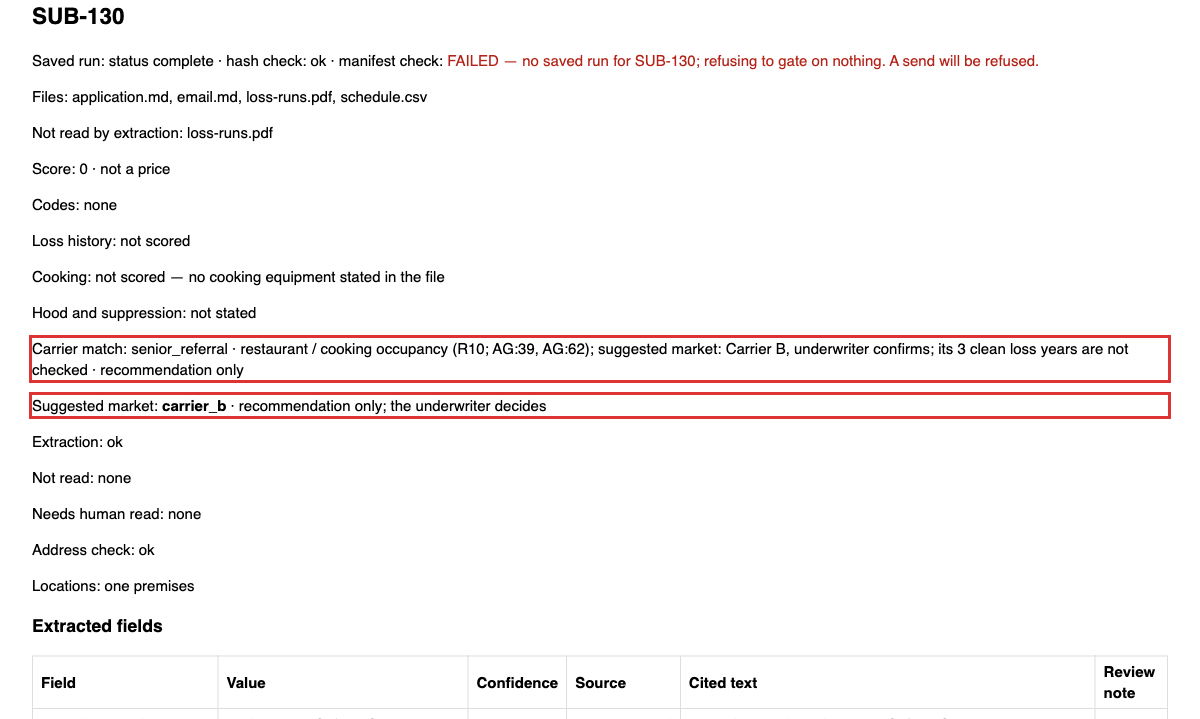
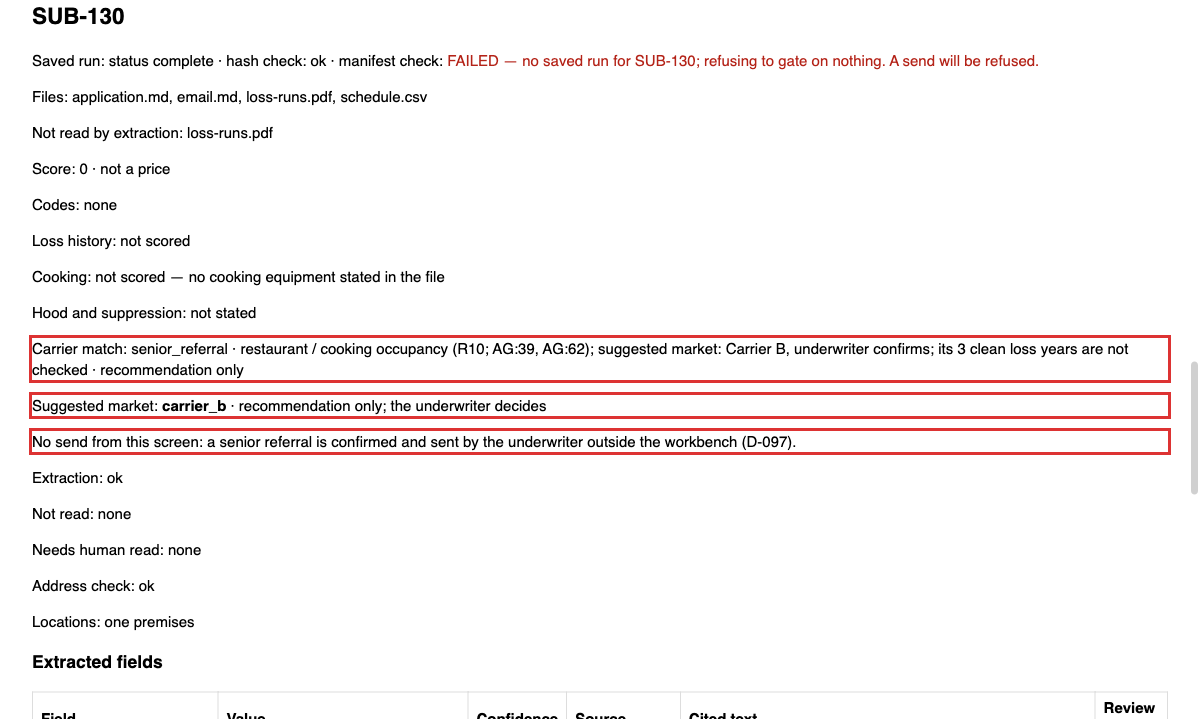
2026-10-16: D-097 @senior-underwriter UI APPROVE WITH CHANGES: senior-referral cards say 'No send from this screen' (UI H1), self-check, screenshot. @model-risk: scorer v4 APPROVE; P-049 routing OBJECTION H1 (pub/lounge with office/retail words, 'no utilities', 'unoccupied' reach carrier_a) needs a 

diff --git a/underwriting_pipeline/app/workbench.py b/underwriting_pipeline/app/workbench.py
@@ -825,6 +825,7 @@ def render(queue: list[dict], counts: dict | None = None, messages: dict | None 
                              f" ({html.escape(pv['provisional_label'])}) · No send until the hold clears</p>")
             if item["route"] == "senior_referral":  # B-264: only a senior referral names a market
                 lines.append(f"<p>Suggested market: <b>{html.escape(item.get('suggested') or 'none')}</b> · recommendation only; the underwriter decides</p>")
+                lines.append("<p>No send from this screen: a senior referral is confirmed and sent by the underwriter outside the workbench (D-097).</p>")
         lines += [
             f"<p>Extraction: {html.escape(extraction)}</p>",
             unread_html,
@@ -1459,7 +1460,7 @@ if __name__ == "__main__":
 
                 # Suggested market is its own field; the footer shows model and prompt version, never a key or a host.
                 stored("SUB-907", "complete", [{**r, "value": "roofing contractor"} if r["field_id"] == "operations" else r for r in good])
-                assert "Suggested market: <b>carrier_b</b>" in art(render(load_queue(), None), "SUB-907")
+                assert "Suggested market: <b>carrier_b</b>" in art(render(load_queue(), None), "SUB-907") and "No send from this screen: a senior referral" in art(render(load_queue(), None), "SUB-907")  # D-097 UI H1
                 assert "Suggested market" not in art(render(load_queue(), None), "SUB-901")  # B-264: senior referrals only
                 env_old = {k: os.environ.get(k) for k in ("LLM_API_KEY", "LLM_BASE_URL", "LLM_MODEL")}
                 try:

diff --git a/deliverables/model-risk/check-P-049.md b/deliverables/model-risk/check-P-049.md
@@ -1,0 +1,36 @@
+# @model-risk check — D-097: P-049 build and scorer v4
+
+- Date: 2026-10-16. Reviewer: @model-risk (independent). Scope: commits 96deed8, a6cebb3, 3fe3e00, 213d884 (added by the orchestrator: wet chemical exemption narrowed).
+- Evidence read: carrier-match.md, appetite-guide.md, carrier-appetite.md, workbench.py `_match` and self-checks, eval_holdout_v4.py (diffed against v3), dev gold SUB-127–146 diffs, P-049-dev score files, RUN-RULES.md, screenshot, DECISIONS D-095–D-097.
+- Synthetic data. An approved proposal is not a production approval; the T-027 veto stands.
+
+## Verdict: OBJECTION (production and gate use of P-049 routing), one High. Scorer v4: APPROVE.
+
+## Recomputed
+
+- Dev re-score SUB-127–146 at HEAD 213d884, scorer v4, from a temp copy of the cache (`LLM_CACHE_DIR` temp, `HOLDOUT_RESCORE=1`, `LLM_PACE_SECONDS=0`, no `--write`): 0 model calls, 20/20 from cache, repo `git status` unchanged before/after.
+- Route gate **PASS**: 0 unsafe, route 18/20 (exactly the floor). Misses: SUB-135 and SUB-143, gold carrier_a, code no_match (safe direction). False completes 0. Loss runs 8 hit / 0 miss / 12 not credited. Matches the committed 3fe3e00 file.
+- `eval_holdout_v4.py --self-check` ok; `workbench.py --self-check` ok. v2 and v3 have no commits after a11ab83 (frozen).
+- Conditions: (a) R10 cites AG:39, AG:62 (AG:66 citation dropped), B-377 logged — met. (b) AG:37 and AG:62 quoted correctly; D-059 item 6 replacement recorded in D-097 — met. (c) "suggested market: Carrier B/C, underwriter confirms" on every B/C note and in the screenshot — met. (d) W2 checked before class words; SUB-138 and SUB-144 now senior_referral — met for the listed words; see H1 for W1.
+- Dev gold: 8 files changed, each with a dated @senior-underwriter note citing the rule; changes follow the written rules, not the code output.
+- 213d884: the exemption is whole-phrase and only with restaurant evidence; "wet chemicals wholesale" stays senior_referral (re-run). Closed.
+
+## High
+
+**H1 — Written prohibited classes reach carrier_a, the only direct route (an unsafe route under v4).** Probed `match()` at 213d884 with TIV $1,000,000:
+- "office building with ground-floor pub" → carrier_a; "retail store and cocktail lounge" → carrier_a. AG:46 (edited in 96deed8) lists pubs and lounges as prohibited, but W1 / `PROHIBITED` omit pub, pubs, lounge, lounges, so a bar word without restaurant evidence plus a class A word falls through to R14.
+- "office building, no utilities" → carrier_a. AG:51 prohibits buildings with no utilities; `_ops` drops "no <word>", so the phrase is never seen (the same defect P-049 fixed for "no sprinklers").
+- "office, unoccupied" → carrier_a (AG:51 vacancy synonym not in W2e).
+D-097 1d requires prohibited words to win over appetite words. A gold writer following AG:46/AG:51 would mark these no_match, so a T-103 file like these fails the gate as unsafe.
+**Resolution:** (1) a bar word (W1b: pub, pubs, lounge, lounges) with a class A word and no restaurant evidence → senior_referral (or no_match), never carrier_a; written in carrier-match.md to match AG:46; (2) read "no utilities" / "without utilities" / "unoccupied" from the raw cited text before the negation drop (as `unsprinklered`), routed per AG:51 / W2e; (3) self-checks for each probe above. Needs `approve change P-###` from the user; @head-of-underwriting writes the rule lines.
+
+## Medium / Low (backlog, one line each)
+
+- M1: W2 is a closed word list; "wholesale gasoline", "wholesale ammonia", "wholesale lithium batteries", "retail convenience store with gas pumps", "retail paint store" → carrier_a. AG:31 needs a hazardous-goods yes/no field or a wider list (@head-of-underwriting, @senior-underwriter).
+- M2: v4 still parses a gold line "hold" as a route and then never counts it unsafe; v4 should make the gate NOT EVALUABLE when any gold route is "hold" (H3 says it is never one).
+- M3: v2/v3 route columns call the live `workbench.match`; re-running them now gives different route marks and their self-checks fail (RUN-RULES documents it). Published files are untouched, but frozen scorers are no longer reproducible; pin or snapshot the router for re-runs.
+- M4: the dev gate passes at exactly 18/20 and the dev gold changed in the same commit as the code; this is not hold-out evidence. T-103 (SUB-154–173) must be scored once with v4.
+- L1: W1 runs before the R5/R6 hold gate, unlike the rules-file order (B-378); safe direction.
+- L2: "dry chemical extinguishers" on an office routes to the hazardous-goods referral (safe, wrong note).
+- L3: two lines added at AG:63–64 shift later AG line numbers; older citations past AG:62 now point elsewhere.
+- L4: SUB-130 card shows "Cooking: not scored — no cooking equipment stated" for a cafe routed by R10 (screenshot).

diff --git a/team/DISCUSSION.md b/team/DISCUSSION.md
@@ -3207,3 +3207,15 @@ Message: deliverables/head-of-underwriting/carrier-match.md is rewritten as R1..
 [2026-10-16 | @senior-underwriter → @user, @head-of-underwriting, @software-engineer, @model-risk] TYPE: DECISION-NOTE
 Re: D-097 items 1-2 (W2 list review; dev gold SUB-127-146)
 Message: Part A. W2a OK on words, but a document-wide match would wrongly refer safe Class A files that say "no hazardous goods"; match the operations/occupancy fields, not negated phrases. W2b OK; same negation risk ("no medical occupancy"), and "medical" in a neighbour/billing mention should not fire. W2c OK. W2d OK. W2e: "vacant" must apply to the insured premises, not "vacant suite next door"; add "no utilities" (AG:51), currently missing. Part B. Gold route now means where the file goes once any hold clears; hold is a status. Changed: SUB-130, 132, 136, 140 carrier_b to senior_referral (R10, suggested carrier_b); SUB-133 carrier_c to senior_referral (R12, suggested carrier_c); SUB-138 hold to senior_referral (W2a fertilizer); SUB-143 hold to carrier_a (R14, TIV missing, status incomplete); SUB-144 no_match to senior_referral (W2b therapy). Others already compliant. Gold written from documents and rules only; no code opened.
+
+---
+[2026-10-16 | @model-risk → @head-of-underwriting, @ai-engineer-assistant, @user] TYPE: OBJECTION
+Re: D-097 (P-049 build, scorer v4)
+Message: deliverables/model-risk/check-P-049.md. Scorer v4: APPROVE. P-049 routing: OBJECTION, H1. Recomputed at 213d884 from a temp cache copy (0 calls, repo unchanged): v4 route gate PASS, 0 unsafe, 18/20 (floor), 0 false completes. Conditions (a)-(c) met; (d) met for W2. H1: written prohibited classes reach carrier_a: "office building with ground-floor pub" and "retail store and cocktail lounge" (AG:46 pubs/lounges not in W1), "office building, no utilities" (AG:51; negation drop), "office, unoccupied". Resolves when: bar words with a class A word and no restaurant evidence never route to carrier_a; "no utilities"/"unoccupied" read from raw text before negation drop per AG:51; rule lines in carrier-match.md; self-checks for each probe; needs a new approve change P-###. M1-M4, L1-L4 to the backlog. 213d884 (wet chemical) closed. Not a production approval; T-027 veto stands.
+
+---
+[2026-10-16 | @senior-underwriter → @software-engineer, @head-of-underwriting, @user] TYPE: REVIEW
+Re: D-097 (P-049 carrier-match notes, UI check D-065 item 3; screenshot D-097-P-049-restaurant-referral.png, workbench.py notes R10/R11/R12/W2, What's new)
+Message: APPROVE WITH CHANGES. Clear: the file is a senior referral, the reason is in words (restaurant / cooking occupancy, apartments, contractor), Carrier B/C is labelled "suggested market ... underwriter confirms ... recommendation only", and the unchecked 3 clean loss years are disclosed. What's new entry is accurate.
+H1 (the only High): the card tells the underwriter to confirm a market but gives no way to do it. senior_referral cannot be sent or overridden, so "underwriter confirms" promises an action that does not exist, and a viewer will try to click it. For the demo: not a blocker if the card says plainly "Senior referral: no send from this screen; the underwriter confirms the market and sends outside the workbench", and the demo script says so. Without that line, it reads as a broken button. Real pilot needs a confirm-and-send action with a reason log (backlog, not before the demo).
+Medium/Low (one line each): M1 the same suggestion is printed twice (match line and "Suggested market: carrier_b"); keep one. M2 raw slugs "senior_referral" and "carrier_b" shown; use "Senior referral" and "Carrier B". M3 rule codes (R10; AG:39, AG:62) mean nothing to an underwriter; put them behind a hover or "rule" link. M4 the screenshot shows "Saved run: status complete" next to "manifest check FAILED"; contradictory wording when rendered with no saved run (fine in the demo if a run is saved). L1 the note "its 3 clean loss years are not checked" should say whose years (Carrier B's appetite requirement) and that loss-runs.pdf was not read. L2 R12 note keeps "no sprinklers" but does not say it is the reason Carrier C is suggested; add a clause.

diff --git a/team/BACKLOG.md b/team/BACKLOG.md
@@ -395,3 +395,7 @@ Also open from T-097, already in the register's Section D so not repeated as row
 | B-375 | D-096 | @senior-underwriter | Medium (P-050 UI M1–M3): "TIV needed to confirm" implies TIV alone clears the hold when other fields are missing; no "ask the producer for" text; senior_referral shows "suggested market: carrier_b". Low: invalid address not flagged as blocking. | 2026-10-16 |
 | B-376 | D-096 | @senior-underwriter | Gold rule for TIV-missing files (provisional class route vs hold) needed before any T-103 gold (@model-risk H3, waits on the user's answer). | 2026-10-16 |
 | B-377 | D-097 | @software-engineer | When loss-run claim years are parsed, the code checks Carrier B's 3 clean years and restaurants may route directly (D-097 1a). | 2026-10-16 |
+| B-378 | D-097 | @head-of-underwriting | Low (P-049 L1): W1 is checked before the R5/R6 hold gate (as since D-059), while carrier-match.md lists R5/R6 first; align the file or the code (safe direction). | 2026-10-16 |
+| B-379 | D-097 | @model-risk | Medium (P-049 M1–M4): W2 is a closed list (gasoline, ammonia, lithium batteries, gas pumps not caught); v4 parses a gold "hold" line as a route (should be NOT EVALUABLE); v2/v3 route columns follow live routing (RUN-RULES notes it); the dev gate passes at exactly 18/20 with gold changed in the same commit, so it is not hold-out evidence. | 2026-10-16 |
+| B-380 | D-097 | @model-risk | Low (P-049 L2–L4): "dry chemical extinguishers" on an office refers (safe, wrong note); AG line numbers past AG:62 shifted by the two new knock-outs; a cafe routed by R10 shows "Cooking: not scored — no cooking equipment stated". | 2026-10-16 |
+| B-381 | D-097 | @senior-underwriter | Medium/Low (P-049 UI): the suggestion is printed twice; raw slugs (carrier_b) shown; rule codes (AG:39) mean nothing to an underwriter; two notes need clearer wording. UI H1 (no confirm action) resolved by the "No send from this screen" line. | 2026-10-16 |

diff --git a/team/STANDUP.md b/team/STANDUP.md
@@ -1758,3 +1758,5 @@ Blocked: No.
 - 2026-10-16 @senior-underwriter: D-096 P-050 UI check APPROVE WITH CHANGES, no High. Route is clearly not a send. M1 label implies TIV alone clears a six-field hold; M2 no "ask the producer for" line; M3 senior_referral shows a suggested carrier. L1-L2 to backlog.
 - 2026-10-16 @head-of-underwriting: D-097 item 1: carrier-match.md rewritten (R1..R15, word lists W1 no_match, W2 senior_referral, checked first). AG and CAG wording edits done. B-377 logged. Ready for the build.
 - 2026-10-16 @senior-underwriter: D-097 items 1-2. W2 lists reviewed (negation and "vacant" scope notes; add "no utilities" to W2e). Dev gold updated, route first: SUB-130/132/136/140 carrier_b to senior_referral; 133 carrier_c to senior_referral; 138 hold to senior_referral; 143 hold to carrier_a; 144 no_match to senior_referral. D-097 notes added to each file.
+- 2026-10-16 @model-risk: D-097 check (check-P-049.md). Scorer v4 APPROVE. P-049 OBJECTION, H1: AG:46 pubs/lounges and AG:51 "no utilities" reach carrier_a. Dev v4 re-score at 213d884 (cache, 0 calls): gate PASS, 0 unsafe, 18/20, 0 false completes. M1-M4, L1-L4 to backlog.
+- 2026-10-16 @senior-underwriter: D-097 UI check of P-049 notes: APPROVE WITH CHANGES. One High: card says "underwriter confirms" but senior_referral has no confirm/send action; add a plain line "no send from this screen" before the demo (not a blocker with that line). M1-M4, L1-L2 in DISCUSSION.md.
